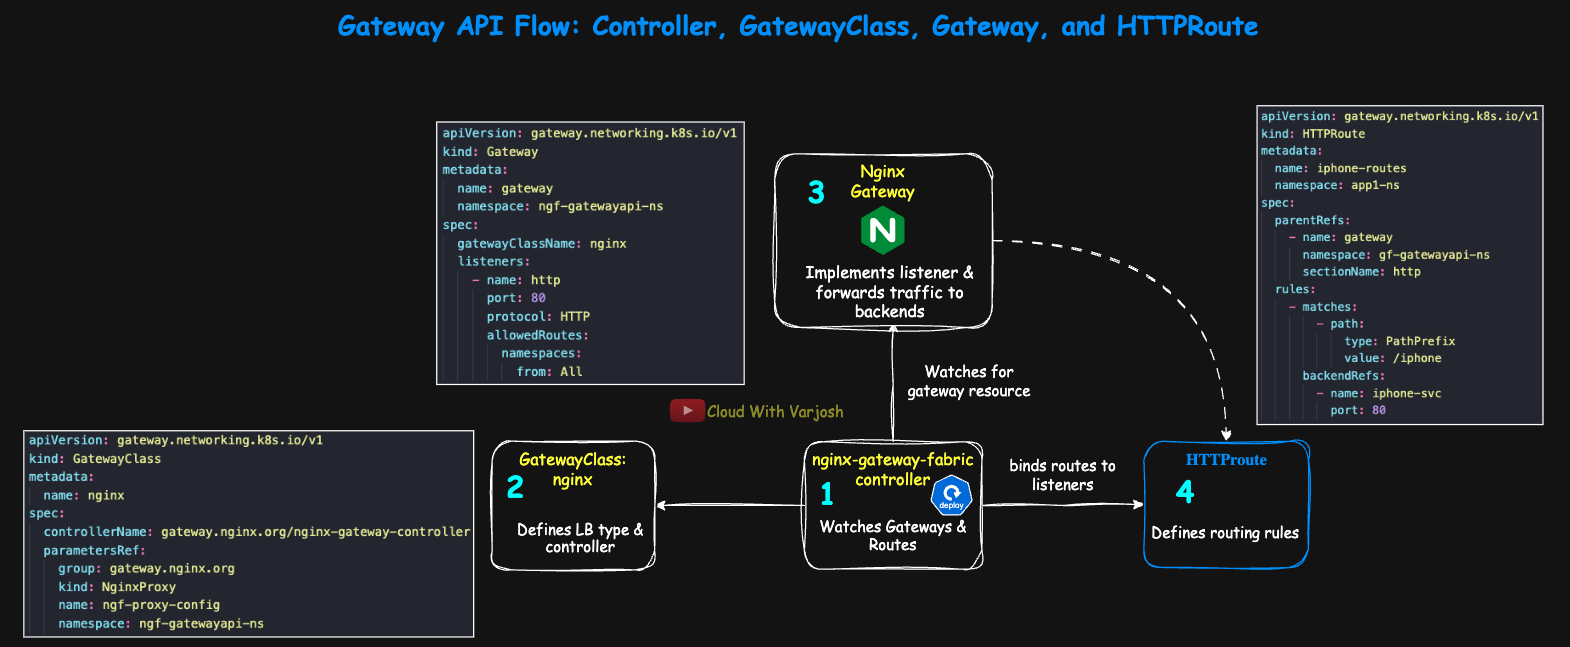
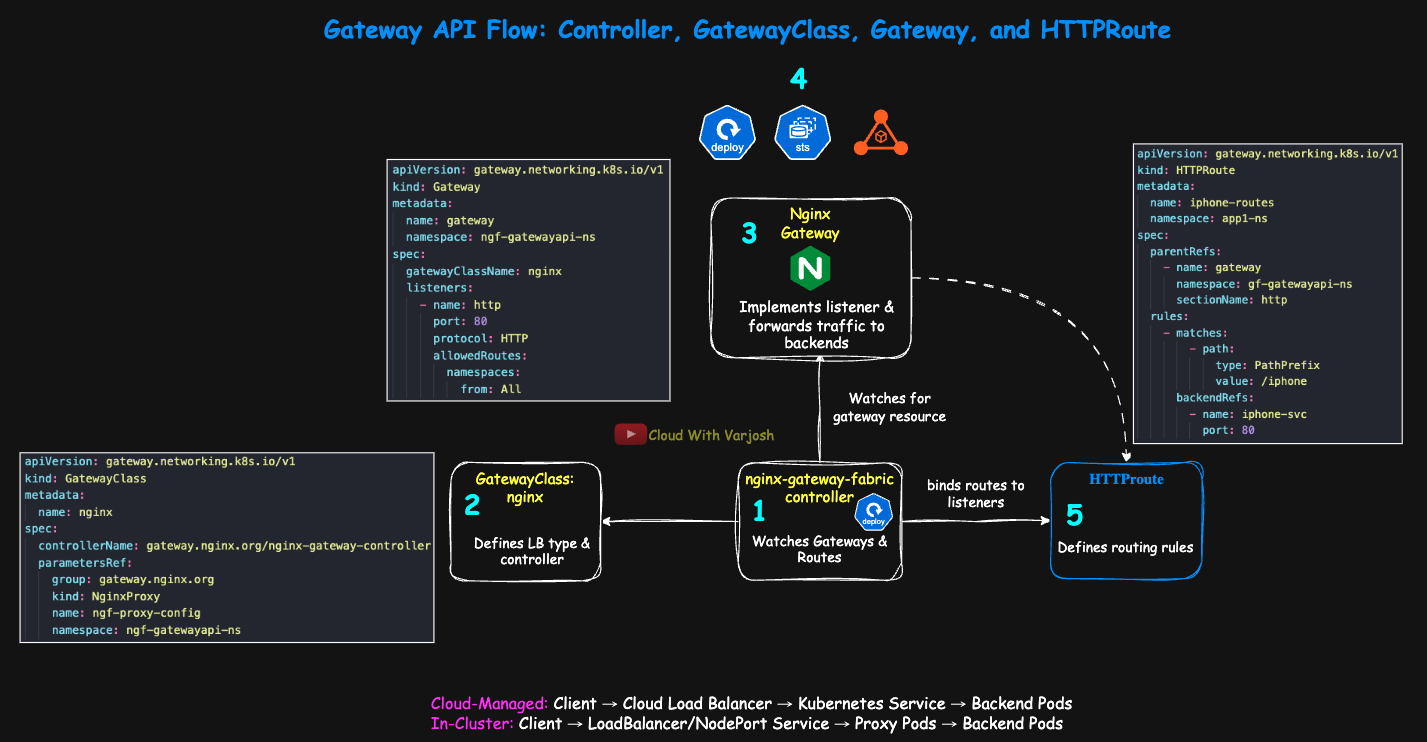
Updated Day 52

diff --git a/Day 52/README.md b/Day 52/README.md
@@ -65,11 +65,15 @@ Before starting the Gateway API lectures (Day 52 & Day 53), it is highly recomme
 
 ---
 
-### **Custom Resources**
+### **Custom Resources & Operators**
 
 * **Day 39:** Custom Resources (CR) and Custom Resource Definitions (CRD) Explained with Demo  
   GitHub: [Day 39 Notes](https://github.com/CloudWithVarJosh/CKA-Certification-Course-2025/tree/main/Day%2039)  
   YouTube: [Watch Video](https://www.youtube.com/watch?v=y4e7nQzu_8E)  
+
+* **Day 40:** Kubernetes Operators Deep Dive with Hands-On Demo  
+  GitHub: [Day 40 Notes](https://github.com/CloudWithVarJosh/CKA-Certification-Course-2025/tree/main/Day%2040)  
+  YouTube: [Watch Video](https://www.youtube.com/watch?v=hxgmG1qYU2M&ab_channel=CloudWithVarJosh)  
 
 ---
 
@@ -94,7 +98,7 @@ Everything beyond simple host and path routing — such as **SSL redirects**, **
 
 ### 3. Controller-Specific Annotations Are Common Practice
 
-In our Ingress demos, we used the **AWS Load Balancer Controller (ALB Ingress Controller)**, which provides a large set of annotations to control ALB behavior. For example:
+In our Ingress demos, we used the **AWS Load Balancer Controller (an Ingress Controller)**, which provides a large set of annotations to control ALB behavior. For example:
 
 * SSL policy selection
 * Target group health check settings
@@ -145,6 +149,11 @@ Ingress natively supports only **HTTP(S) host-based and path-based routing**. It
 * Header-, query-, or method-based routing
 
 While these capabilities can be achieved with certain Ingress controllers through annotations, this again creates **controller lock-in** and reduces portability. If you move to another controller, you must verify whether it supports the same features — and if it does, you’ll likely need to change the annotation format to match.
+
+> **What is gRPC?**
+**gRPC** is a high-performance, open-source protocol for remote procedure calls (RPC).
+It enables services to communicate directly, even across different languages and platforms.
+It uses HTTP/2 under the hood for faster, more efficient data exchange.
 
 ---
 
@@ -249,6 +258,7 @@ Gateway API goes beyond the HTTP/S-only limitation of Ingress by supporting **mu
 
 ---
 
+
 ## Gateway API Flow: Controller, GatewayClass, Gateway, and HTTPRoute
 
 This diagram illustrates how the **Gateway API** components interact in a Kubernetes environment using the **NGINX Gateway Fabric** as an example. It follows the sequence from the controller detecting configuration changes to routing traffic to the correct backend.
@@ -283,7 +293,9 @@ When the controller detects a `Gateway` resource that uses its `GatewayClass`, i
 * Configures listeners (e.g., HTTP on port 80, HTTPS on port 443).
 * Prepares to forward traffic to backend services.
 
-In this stage, the controller ensures the gateway is ready to bind incoming traffic to the listeners defined in the `Gateway` spec.
+At this stage, depending on the controller implementation, the **data plane** is provisioned:
+– **Cloud-managed**: a provider-managed LB is created.
+– **In-cluster**: proxy pods (e.g., NGINX, Envoy) are deployed or configured.
 
 ---
 
@@ -299,37 +311,60 @@ When created, the controller binds these routes to the corresponding `Gateway` l
 
 ---
 
-
-## Gateway API Setup: Cloud-Managed vs In-Cluster Data Planes
-
-**Cloud-Managed (AWS / GCP / Azure Gateway Controllers)**
-The controller runs **inside the cluster** but provisions an **external, cloud-managed data plane** based on your `Gateway` and `Route` manifests. It creates listeners and routing rules on the cloud load balancer, which then forwards traffic to Kubernetes backends.
-
-* **AWS**: The AWS Gateway API Controller provisions **VPC Lattice** services as the data plane.
-* **GCP**: The GKE Gateway Controller provisions **Google Cloud Load Balancers** (external or internal).
-* **Azure**: The Azure Gateway Controller (for Containers) provisions **Azure Application Gateway** as the data plane.
-
-**In-Cluster (NGINX Gateway Fabric, Istio, Envoy Gateway, HAProxy)**
-The controller reconciles `GatewayClass`, `Gateway`, and `Route` objects and programs an **in-cluster proxy** running as pods or DaemonSets. This proxy is exposed via a Kubernetes `Service` (`LoadBalancer` in cloud; `NodePort` in on-prem/KIND).
+> The exact mechanics **depend on the controller implementation** — some lightweight/demo setups may skip a dedicated proxy tier, while production-grade controllers always program a defined data plane.
 
 ---
 
-### Key Differences
+### **One-Line Flows for Quick Recall**
 
-| Scenario      | Controller Location | Data Plane Location     | Example on AWS / GCP / Azure | Example in NGF Demo             |
-| ------------- | ------------------- | ----------------------- | ---------------------------- | ------------------------------- |
-| Cloud-Managed | In-cluster          | External cloud LB       | VPC Lattice / GCLB / App GW  | —                               |
-| In-Cluster    | In-cluster          | In-cluster proxy (pods) | —                            | NGINX Gateway Fabric (NodePort) |
+```
+Cloud-Managed: Client → Cloud Load Balancer → Kubernetes Service → Backend Pods
+In-Cluster: Client → LoadBalancer/NodePort Service → Proxy Pods → Backend Pods
+```
+
+---
+
+
+## **Gateway API Setup: Cloud-Managed vs In-Cluster Data Planes**
+
+**Cloud-Managed (AWS / GCP / Azure Gateway Controllers)**
+The controller runs **inside the cluster** but **only programs** an **external, cloud-managed data plane** based on your `Gateway` and `Route` manifests.
+It configures listeners, routing rules, TLS settings, and backend service mappings on the cloud load balancer. The cloud load balancer itself handles all client traffic and sends it directly to your Kubernetes Services — the controller is never in the traffic path.
+
+* **AWS** – AWS Gateway API Controller provisions **VPC Lattice services** (or ALB/NLB in other controller variants) as the data plane.
+* **GCP** – GKE Gateway Controller provisions **Google Cloud Load Balancers** (external or internal).
+* **Azure** – Azure Gateway Controller (for Containers) provisions **Azure Application Gateway** as the data plane.
+
+---
+
+**In-Cluster (NGINX Gateway Fabric, Istio, Envoy Gateway, HAProxy)**
+The controller reconciles `GatewayClass`, `Gateway`, and `Route` objects and writes configuration for an **in-cluster proxy** (e.g., NGINX, Envoy) running as pods or DaemonSets.
+These proxy pods form the data plane and handle the actual L4/L7 load balancing, TLS termination, and routing. They’re exposed via a Kubernetes `Service` — typically `LoadBalancer` in cloud environments or `NodePort` for on-prem/KIND clusters.
+⚠ In some lightweight/demo implementations (like certain KIND setups), the controller may bundle a minimal proxy or bypass a dedicated proxy tier, relying on kube-proxy/L4 forwarding. This is fine for demos, but not production-grade.
+
+---
+
+### **Key Differences**
+
+| Scenario          | Controller Location | Data Plane Location     | Example on AWS / GCP / Azure                  | Other In-Cluster / Cloud-Managed Examples                                                  |
+| ----------------- | ------------------- | ----------------------- | --------------------------------------------- | ------------------------------------------------------------------------------------------ |
+| **Cloud-Managed** | In-cluster          | External cloud LB       | AWS VPC Lattice / ALB, GCP GCLB, Azure App GW | AWS Load Balancer Controller (ALB/NLB), GCP Multi-Cluster Gateway, Azure Front Door        |
+| **In-Cluster**    | In-cluster          | In-cluster proxy (pods) | —                                             | NGINX Gateway Fabric, Envoy Gateway, Istio Ingress Gateway, HAProxy Ingress, Traefik Proxy |
+
 
 ---
 
 **Mental Model**
 
-* **Controller** = control plane (watches resources, writes configuration)
-* **Data plane** = where packets actually flow (cloud LB or in-cluster proxy)
-* Cloud setups use **external LBs** managed by the provider, while in-cluster setups rely on **proxy pods** to handle traffic directly.
+* **Controller** = Control plane (watches Gateway API resources, writes config, signals reloads).
+* **Data plane** = Where packets actually flow (cloud LB or in-cluster proxy pods).
+* In **cloud-managed setups**, the cloud provider’s LB is the data plane.
+* In **in-cluster setups**, the proxy pods are the data plane — the controller never sits on the hot path for traffic.
+* **Implementation detail matters**: some demos collapse control and data plane for simplicity.
 
 ---
+
+
 
 ## **Conclusion**
 
